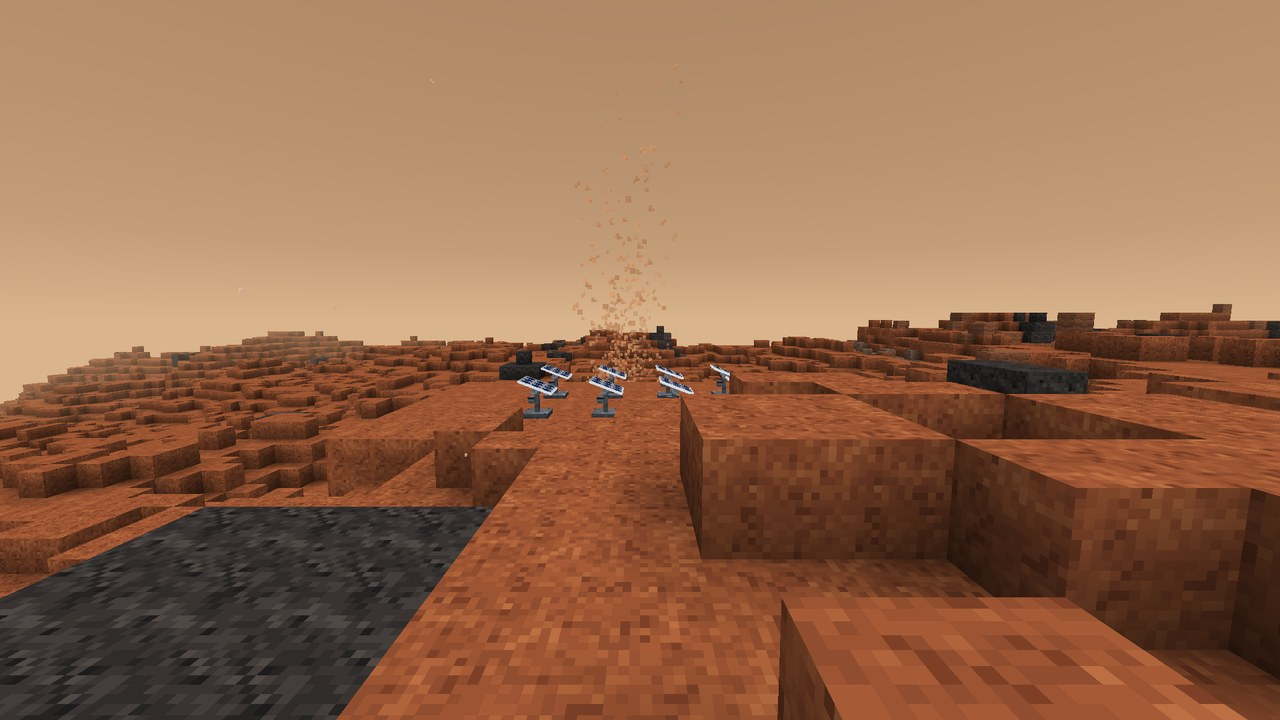
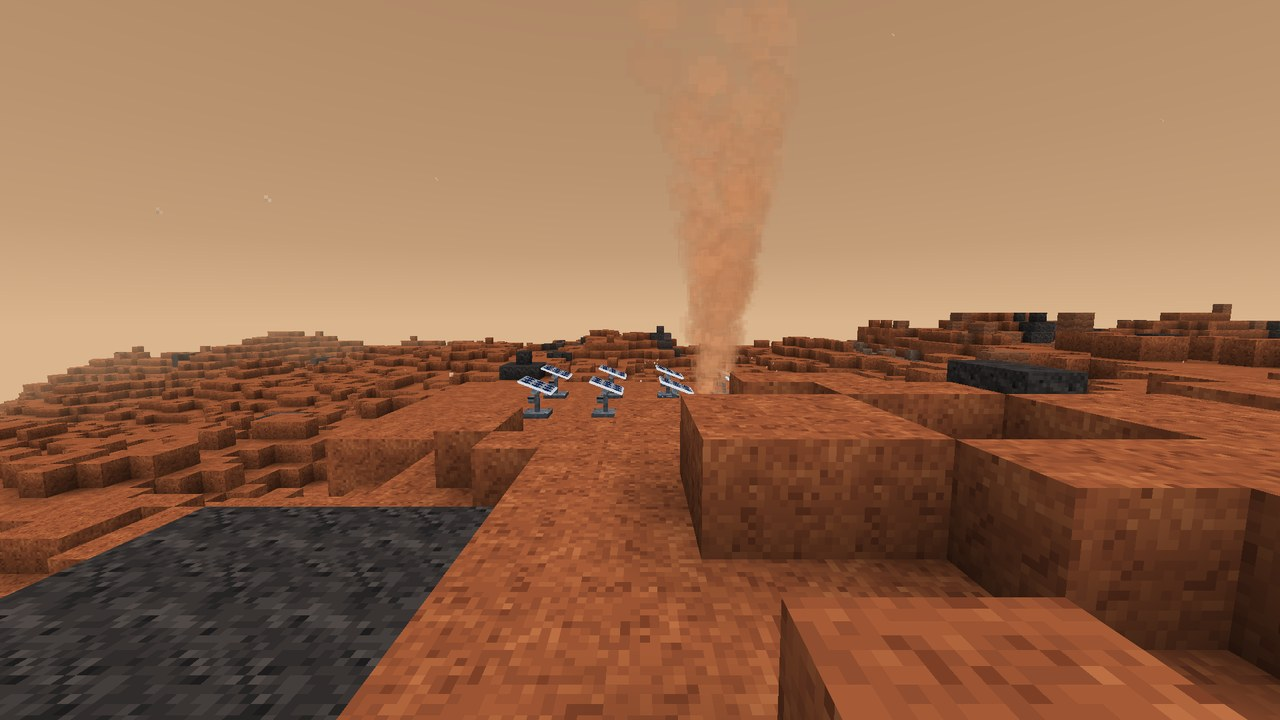
Dust whirls: a continuous funnel instead of loose grains
Grains are laid along three spiral strands and then climb a funnel that
is narrow at the ground and flares with height, growing larger and
fainter as they rise; a soft round puff sprite (drawn in mars.py) makes
the column read as one body. A low ring of dust lifts off at its foot.
Same particle budget as before.

Changed region(s): [[0.4688, 0.3056, 0.5938, 0.55]]

diff --git a/src/main/java/com/pizzaparker07/spacebreaker/client/mars/WhirlDustParticle.java b/src/main/java/com/pizzaparker07/spacebreaker/client/mars/WhirlDustParticle.java
@@ -1,5 +1,6 @@
 package com.pizzaparker07.spacebreaker.client.mars;
 
+import com.pizzaparker07.spacebreaker.content.mars.entity.DustWhirl;
 import net.minecraft.client.multiplayer.ClientLevel;
 import net.minecraft.client.particle.Particle;
 import net.minecraft.client.particle.ParticleProvider;
@@ -9,38 +10,53 @@ import net.minecraft.client.particle.TextureSheetParticle;
 import net.minecraft.core.particles.SimpleParticleType;
 
 /**
- * Dust caught in a dust whirl: circles the column's axis while it rises, the circle widening with height, then fades.
- * Spawned with the axis position and rise speed in place of a velocity: (axis x, rise, axis z).
+ * Dust caught in a dust whirl. It follows the funnel: circling the axis while it rises, on a radius that is narrow at
+ * the ground and flares out with height, growing larger and fainter as it climbs. Spawned with (axis x, base y,
+ * axis z) in place of a velocity, so the funnel's shape is the same for every grain.
  */
 public class WhirlDustParticle extends TextureSheetParticle {
+    /** Rise per tick, blocks. */
+    private static final double RISE = 0.09;
     private final double cx;
     private final double cz;
-    private final double rise;
-    private double radius;
+    private final double base;
+    private final float size0;
     private double angle;
     private final double spin;
 
-    protected WhirlDustParticle(ClientLevel level, double x, double y, double z, double axisX, double rise, double axisZ, SpriteSet sprites) {
+    protected WhirlDustParticle(ClientLevel level, double x, double y, double z, double axisX, double baseY, double axisZ, SpriteSet sprites) {
         super(level, x, y, z, 0, 0, 0);
         this.cx = axisX;
         this.cz = axisZ;
-        this.rise = rise;
-        this.radius = Math.hypot(x - axisX, z - axisZ);
+        this.base = baseY;
         this.angle = Math.atan2(z - axisZ, x - axisX);
-        this.spin = 0.22 + random.nextDouble() * 0.12;
+        this.spin = 0.26 + random.nextDouble() * 0.06;
         this.gravity = 0F;
         this.hasPhysics = false;
-        this.lifetime = 30 + random.nextInt(25);
-        this.quadSize = 0.22F + random.nextFloat() * 0.3F;
-        float shade = 0.78F + random.nextFloat() * 0.2F;
+        this.lifetime = 34 + random.nextInt(20);
+        this.size0 = 0.38F + random.nextFloat() * 0.16F;
+        float shade = 0.82F + random.nextFloat() * 0.14F;
         this.rCol = shade;
         this.gCol = shade * 0.74F;
-        this.bCol = shade * 0.55F;
-        this.alpha = 0.75F;
+        this.bCol = shade * 0.56F;
         this.xd = 0;
         this.yd = 0;
         this.zd = 0;
+        shape();
         pickSprite(sprites);
+    }
+
+    /** Funnel radius at a height above the ground. */
+    public static double radius(double h) {
+        return 0.25 + 0.016 * h * h;
+    }
+
+    private void shape() {
+        double h = Math.max(0, y - base);
+        double t = Math.min(1, h / DustWhirl.HEIGHT);
+        quadSize = size0 * (1F + 1.6F * (float) t);
+        float fade = age > lifetime - 8 ? (lifetime - age) / 8F : 1F;
+        alpha = (float) (0.7 - 0.55 * t) * Math.max(0F, fade);
     }
 
     @Override
@@ -48,16 +64,15 @@ public class WhirlDustParticle extends TextureSheetParticle {
         xo = x;
         yo = y;
         zo = z;
-        if (age++ >= lifetime) {
+        if (age++ >= lifetime || y - base > DustWhirl.HEIGHT) {
             remove();
             return;
         }
         angle += spin;
-        radius += rise * 0.07; // the column widens upward
-        setPos(cx + Math.cos(angle) * radius, y + rise, cz + Math.sin(angle) * radius);
-        if (age > lifetime - 10) {
-            alpha = Math.max(0F, (lifetime - age) / 10F) * 0.75F;
-        }
+        double ny = y + RISE;
+        double r = radius(ny - base);
+        setPos(cx + Math.cos(angle) * r, ny, cz + Math.sin(angle) * r);
+        shape();
     }
 
     @Override
@@ -67,8 +82,8 @@ public class WhirlDustParticle extends TextureSheetParticle {
 
     public record Provider(SpriteSet sprites) implements ParticleProvider<SimpleParticleType> {
         @Override
-        public Particle createParticle(SimpleParticleType type, ClientLevel level, double x, double y, double z, double ax, double rise, double az) {
-            return new WhirlDustParticle(level, x, y, z, ax, rise, az, sprites);
+        public Particle createParticle(SimpleParticleType type, ClientLevel level, double x, double y, double z, double ax, double baseY, double az) {
+            return new WhirlDustParticle(level, x, y, z, ax, baseY, az, sprites);
         }
     }
 }

diff --git a/src/main/java/com/pizzaparker07/spacebreaker/content/mars/entity/DustWhirl.java b/src/main/java/com/pizzaparker07/spacebreaker/content/mars/entity/DustWhirl.java
@@ -125,20 +125,21 @@ public class DustWhirl extends Entity {
 
     private void clientParticles() {
         Level level = level();
-        // dust spiralling up the column: the particle itself circles the axis, so the column holds together
-        for (int i = 0; i < 9; i++) {
-            double h = random.nextDouble() * random.nextDouble() * HEIGHT;
-            double a = random.nextDouble() * Math.PI * 2;
-            double r = 0.35 + h * 0.07;
+        // the funnel: grains laid along three spiral strands, so the column reads as one continuous, twisting body;
+        // each grain then climbs the funnel by itself (WhirlDustParticle), flaring out and fading with height
+        for (int i = 0; i < 8; i++) {
+            double h = random.nextDouble() * random.nextDouble() * HEIGHT * 0.8;
+            double strand = (i % 3) * (Math.PI * 2 / 3);
+            double a = tickCount * 0.26 - h * 0.55 + strand + (random.nextDouble() - 0.5) * 0.5;
+            double r = 0.25 + 0.016 * h * h;
             level.addParticle(MarsParticles.WHIRL_DUST.get(), getX() + Math.cos(a) * r, getY() + h, getZ() + Math.sin(a) * r,
-                    getX(), 0.06 + random.nextDouble() * 0.05, getZ());
+                    getX(), getY(), getZ());
         }
-        // a skirt of dust kicked up at its foot
-        if (tickCount % 2 == 0) {
-            double a = random.nextDouble() * Math.PI * 2;
-            level.addParticle(MarsParticles.DUST_MOTE.get(), getX() + Math.cos(a) * 0.9, getY() + 0.1, getZ() + Math.sin(a) * 0.9,
-                    Math.cos(a) * 0.05, 0.02, Math.sin(a) * 0.05);
-        }
+        // a low ring of dust lifting off the ground at its foot
+        double a = random.nextDouble() * Math.PI * 2;
+        double r = 0.8 + random.nextDouble() * 0.5;
+        level.addParticle(MarsParticles.DUST_MOTE.get(), getX() + Math.cos(a) * r, getY() + 0.05, getZ() + Math.sin(a) * r,
+                -Math.sin(a) * 0.08 + Math.cos(a) * 0.03, 0.01, Math.cos(a) * 0.08 + Math.sin(a) * 0.03);
     }
 
     @Override

diff --git a/tools/textures/modules/mars.py b/tools/textures/modules/mars.py
@@ -504,8 +504,26 @@ def dust_mote(i):
     return cv
 
 
+def whirl_puff(i):
+    """A soft puff of whirled dust (tinted in game): a round blob, dense core, ragged translucent rim; three variants."""
+    import random as _r
+    rng = _r.Random(5301 + i)
+    cv = Canvas(8, 8)
+    for y in range(8):
+        for x in range(8):
+            d = ((x - 3.5) ** 2 + (y - 3.5) ** 2) ** 0.5 + rng.uniform(-0.5, 0.5)
+            if d < 1.8:
+                cv[x, y] = (232, 216, 198, 200)
+            elif d < 2.9:
+                cv[x, y] = (214, 196, 176, 120)
+            elif d < 3.6:
+                cv[x, y] = (200, 180, 160, 55)
+    return cv
+
+
 def export_sky(save):
     save(phobos(), 'environment', 'phobos')
     save(deimos(), 'environment', 'deimos')
     for i in range(3):
         save(dust_mote(i), 'particle', f'dust_mote_{i}')
+        save(whirl_puff(i), 'particle', f'whirl_dust_{i}')
